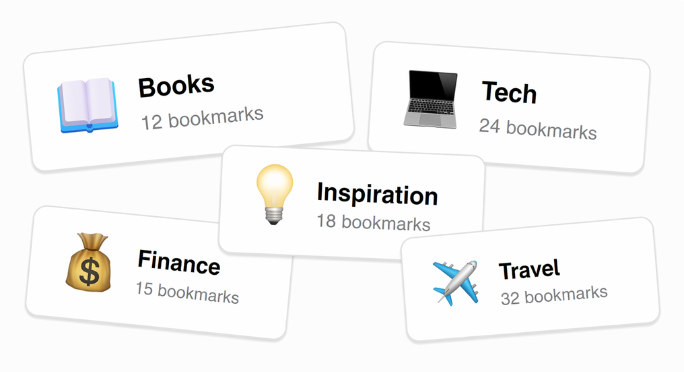
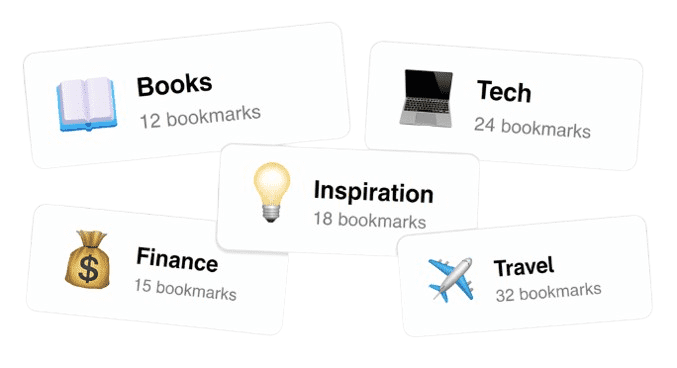
styling: dark mode

diff --git a/apps/web/components/home/bookmark-preview.tsx b/apps/web/components/home/bookmark-preview.tsx
@@ -21,7 +21,7 @@ const Bookmark = ({
     <Link
       href={url}
       target="_blank"
-      className="h-full w-[270px] flex flex-col bg-neutral-100 dark:bg-neutral-100 border dark:border-neutral-200 rounded-t pb-2"
+      className="h-full w-[270px] flex flex-col bg-neutral-100 dark:bg-neutral-950 border border-neutral-300 dark:border-neutral-600 rounded-b rounded-t pb-2"
     >
       <Image
         src={cover}
@@ -29,12 +29,10 @@ const Bookmark = ({
         loading="eager"
         width={500}
         height={500}
-        className="object-cover rounded w-full aspect-video"
+        className="object-cover rounded-t w-full aspect-video"
       />
       <div className="p-2.5 py-2 border-t flex flex-col gap-0.5">
-        <p className="font-semibold leading-5 text-[15px] text-black">
-          {title}
-        </p>
+        <p className="font-semibold leading-5 text-[15px]">{title}</p>
         <div className="flex items-center gap-1.5 text-sm text-muted-foreground">
           <p>{domain}</p>
         </div>
@@ -43,7 +41,7 @@ const Bookmark = ({
             {tags.map((tag) => (
               <div
                 key={tag}
-                className="flex items-center bg-yellow-100 text-yellow-800 border border-yellow-200 w-fit pb-0.5 px-1.5 rounded"
+                className="flex items-center bg-yellow-100 text-yellow-800 dark:bg-yellow-800/50 dark:text-yellow-300 border border-yellow-200 dark:border-yellow-800 w-fit pb-0.5 px-1.5 rounded"
               >
                 <HashIcon className="size-3" />
                 <p className="text-xs">{tag}</p>
@@ -64,8 +62,8 @@ export function BookmarkPreview() {
           <Bookmark key={bookmark.url} {...bookmark} />
         ))}
       </Marquee>
-      <div className="from-[#fcfcfc] pointer-events-none absolute inset-y-0 left-0 w-1/4 bg-linear-to-r"></div>
-      <div className="from-[#fcfcfc] pointer-events-none absolute inset-y-0 right-0 w-1/4 bg-linear-to-l"></div>
+      <div className="from-[#f5f5f5] dark:from-[#262626] pointer-events-none absolute inset-y-0 left-0 w-1/4 bg-linear-to-r"></div>
+      <div className="from-[#f5f5f5] dark:from-[#262626] pointer-events-none absolute inset-y-0 right-0 w-1/4 bg-linear-to-l"></div>
     </div>
   );
 }

diff --git a/apps/web/components/home/features-section.tsx b/apps/web/components/home/features-section.tsx
@@ -8,8 +8,8 @@ export function FeaturesSection() {
   return (
     <section className="flex flex-col items-center gap-12 mt-5">
       <div className="flex flex-col items-center gap-4">
-        <h2 className="text-4xl font-bold text-black">✨ Features</h2>
-        <p className="text-neutral-500 text-center dark:text-neutral-500">
+        <h2 className="text-4xl font-bold text-primary">✨ Features</h2>
+        <p className="text-muted-foreground text-center">
           Simple Bookmarks is packed with amazing features that enable you to
           better organize your bookmarks. <br className="hidden md:block" /> A
           complete bookmark manager with all the features you need.
@@ -20,26 +20,26 @@ export function FeaturesSection() {
           <Card
             key={feature.name}
             className={cn(
-              "rounded border dark:border-neutral-200 gap-0 bg-neutral-50/50 dark:bg-neutral-50/50 shadow-none px-2 pb-8",
+              "rounded border gap-0 bg-muted shadow-none px-2 pb-8",
               feature.fullWidth && "md:col-span-2 col-span-1",
             )}
           >
             <CardHeader>
-              <CardTitle className="text-2xl font-bold text-black">
+              <CardTitle className="text-2xl font-bold">
                 {feature.name}
               </CardTitle>
             </CardHeader>
             <CardContent className="flex flex-col gap-2">
               <p
-                className="text-neutral-500 dark:text-neutral-500"
+                className="text-muted-foreground"
                 dangerouslySetInnerHTML={{ __html: feature.description }}
               />
               {feature.imagePath && (
                 <Image
                   src={feature.imagePath}
                   alt={feature.name}
-                  width={1000}
-                  height={1000}
+                  width={500}
+                  height={500}
                   loading="eager"
                   className="w-full h-full object-cover rounded"
                 />

diff --git a/apps/web/components/home/header.tsx b/apps/web/components/home/header.tsx
@@ -3,8 +3,8 @@ import Image from "next/image";
 
 export function Header() {
   return (
-    <nav className="bg-white dark:bg-white sticky pt-5 z-10">
-      <div className="xl:w-[50%] w-full lg:mx-auto flex items-center md:justify-between justify-center bg-neutral-100 dark:bg-neutral-100 p-3 px-6 border-2 dark:border-neutral-200 rounded shadow-lg">
+    <nav className="sticky pt-5 z-10">
+      <div className="xl:w-[50%] w-full lg:mx-auto flex items-center md:justify-between justify-center bg-neutral-100 dark:bg-neutral-800 p-3 px-6 border-2 dark:border-neutral-700 rounded shadow-lg">
         <Link href="/" className="flex items-center gap-1.5">
           <Image
             src="/app-icon.png"
@@ -13,13 +13,11 @@ export function Header() {
             height={28}
             loading="eager"
           />
-          <h1 className="md:text-2xl font-bold text-xl dark:text-black">
-            Simple Bookmarks
-          </h1>
+          <h1 className="md:text-2xl font-bold text-xl ">Simple Bookmarks</h1>
         </Link>
         <Link
           href="/login"
-          className="bg-black text-white p-1.5 px-6 rounded hover:bg-neutral-800 hidden md:block"
+          className="bg-neutral-950 dark:bg-neutral-200 text-primary-foreground dark:font-medium p-1.5 px-6 rounded hover:bg-neutral-800 hidden md:block"
         >
           Login
         </Link>

diff --git a/apps/web/components/home/hero-section.tsx b/apps/web/components/home/hero-section.tsx
@@ -3,18 +3,18 @@ import Link from "next/link";
 export function HeroSection() {
   return (
     <section className="flex flex-col gap-4 items-center justify-center mt-28">
-      <h1 className="text-6xl font-black text-center tracking-tight text-black">
+      <h1 className="text-6xl font-black text-center tracking-tight text-black dark:text-white">
         <span>
           Bookmark manager <br /> for{" "}
         </span>
         <span className="text-[#FE3157]">the modern web</span>
       </h1>
-      <p className="text-lg text-neutral-500 dark:text-neutral-500 text-balance w-full max-w-2xl text-center">
+      <p className="text-lg text-neutral-500 dark:text-neutral-400 text-balance w-full max-w-2xl text-center">
         Keep everything you discover — all in one place
       </p>
       <Link
         href="/my/unsorted"
-        className="bg-black text-white p-2 px-6 mt-6 rounded hover:bg-neutral-800 shadow-[3px_3px_0_#FE3157] active:translate-y-[3px] active:shadow-none transition-all"
+        className="bg-neutral-950 dark:bg-neutral-200 text-primary-foreground dark:font-medium p-2 px-6 mt-6 rounded hover:bg-neutral-800 shadow-[3px_3px_0_#FE3157] active:translate-y-[3px] active:shadow-none transition-all"
       >
         Get Started
       </Link>

diff --git a/apps/web/components/home/open-source-section.tsx b/apps/web/components/home/open-source-section.tsx
@@ -13,9 +13,9 @@ export function OpenSourceSection() {
             width={35}
             height={35}
           />
-          <h2 className="text-4xl font-bold text-black">Open Source</h2>
+          <h2 className="text-4xl font-bold">Open Source</h2>
         </div>
-        <p className="text-neutral-500 text-center dark:text-neutral-500">
+        <p className="text-muted-foreground text-center">
           Simple Bookmarks is free and open source. <br /> Thousands of
           developers worldwide can share and contribute to the Simple Bookmarks
           experience.
@@ -25,7 +25,7 @@ export function OpenSourceSection() {
           target="_blank"
         >
           <Button
-            className="text-md rounded py-5 px-8 cursor-pointer bg-neutral-100 dark:bg-neutral-100 text-black dark:border-neutral-200"
+            className="text-md rounded py-5 px-8 cursor-pointer bg-accent dark:bg-muted-foreground/20"
             variant="outline"
           >
             View on GitHub

diff --git a/apps/web/components/home/footer.tsx b/apps/web/components/home/footer.tsx
@@ -2,13 +2,13 @@ import Link from "next/link";
 
 export function Footer() {
   return (
-    <footer className="flex items-center justify-center gap-2 p-4 px-5 bg-neutral-100 dark:bg-neutral-100 border-t border-t-neutral-300 dark:border-t-neutral-300">
-      <p className="text-black dark:text-black">
+    <footer className="flex items-center justify-center gap-2 p-4 px-5 border-t bg-muted">
+      <p>
         Made by{" "}
         <Link
           href="https://x.com/abhishekY495"
           target="_blank"
-          className="text-neutral-500 dark:text-neutral-500 underline decoration-neutral-400 dark:decoration-neutral-400 underline-offset-[3px]"
+          className="text-muted-foreground underline underline-offset-[3px]"
         >
           Abhishek
         </Link>

diff --git a/apps/web/app/page.tsx b/apps/web/app/page.tsx
@@ -7,7 +7,7 @@ import { OpenSourceSection } from "@/components/home/open-source-section";
 
 export default function Home() {
   return (
-    <div className="flex flex-col min-h-screen bg-white">
+    <div className="flex flex-col min-h-screen">
       <div className="flex-1 p-5 pt-0 px-8 pb-28">
         <Header />
         <HeroSection />
